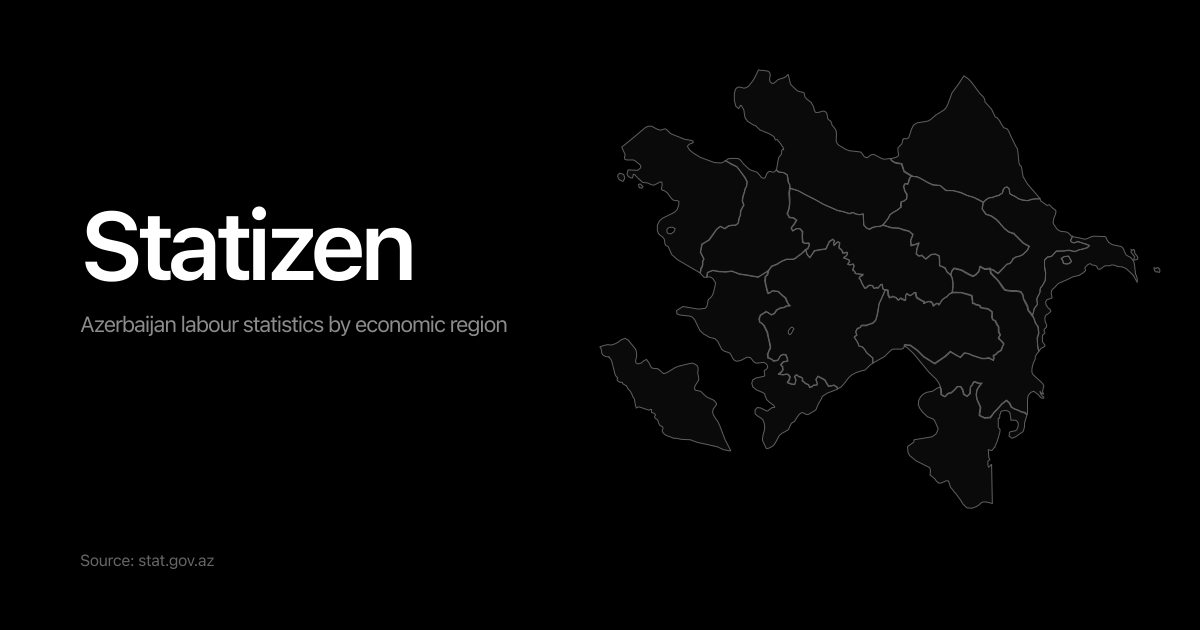
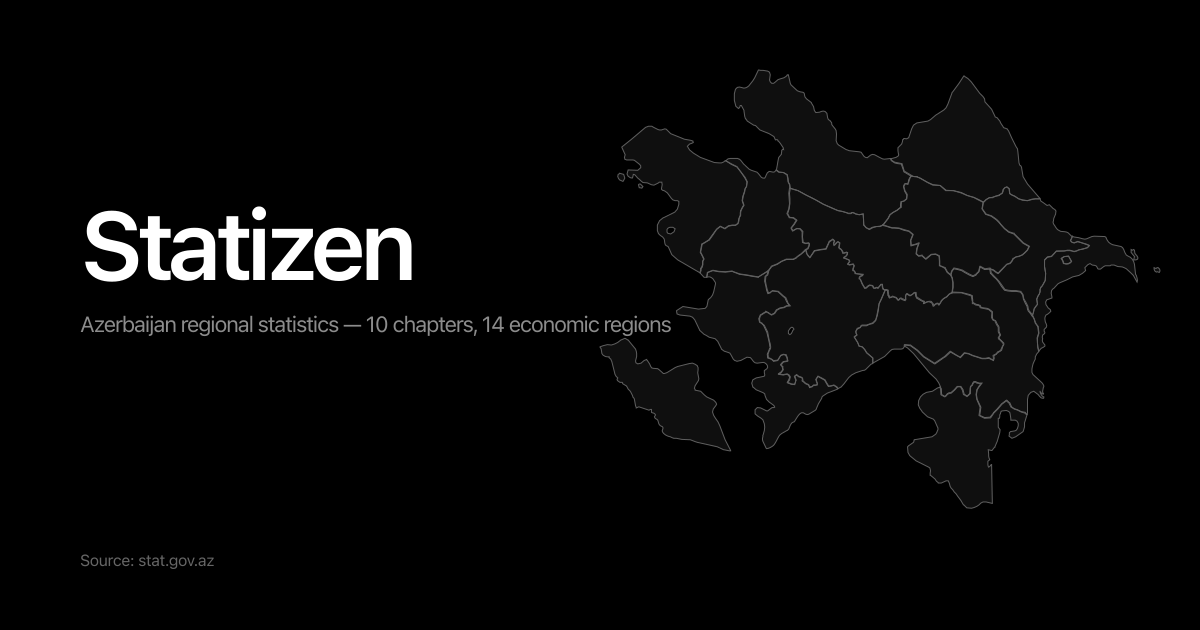
Refresh OG card + meta description for 10-chapter scope
OG subtitle was still "labour statistics" from the launch frame.
Updated to "10 chapters, 14 economic regions" so the LinkedIn /
Twitter preview matches what's actually shipped. Also bumped the
map fill alpha 0.04 → 0.06 to match the lighter dark-mode token.
Meta description rewritten to list all ten chapters.

Changed region(s): [[0.1542, 0.4825, 0.555, 0.5429]]

diff --git a/app/layout.tsx b/app/layout.tsx
@@ -12,7 +12,7 @@ const archivo = Archivo({
 const SITE_URL = "https://statizen.space";
 const SITE_TITLE = "Statizen — Azerbaijan regional statistics";
 const SITE_DESCRIPTION =
-  "Interactive map of Azerbaijan's regional statistics — demography, labour market, health, crime, and trade across the 14 economic regions. Source: stat.gov.az.";
+  "Interactive map of Azerbaijan's regional statistics — economy, demography, labour, industry, agriculture, health, crime, transport, tourism, and trade across the 14 economic regions. Source: stat.gov.az.";
 
 export const metadata: Metadata = {
   metadataBase: new URL(SITE_URL),

diff --git a/etl/geo/figma/og.py b/etl/geo/figma/og.py
@@ -16,7 +16,7 @@ scale = min(MAP_W / bb["w"], (H - 140) / bb["h"])
 tx = MAP_X - bb["x"] * scale
 ty = MAP_Y - bb["y"] * scale
 paths = "".join(
-    f'<path d="{r["d"]}" fill="rgba(255,255,255,0.04)" stroke="#5f5f5f" '
+    f'<path d="{r["d"]}" fill="rgba(255,255,255,0.06)" stroke="#5f5f5f" '
     f'stroke-width="1" vector-effect="non-scaling-stroke"/>'
     for r in d["regions"]
 )
@@ -28,7 +28,7 @@ svg = f'''<svg xmlns="http://www.w3.org/2000/svg" width="{W}" height="{H}" viewB
     style="letter-spacing:-2px">Statizen</text>
   <text x="80" y="332" font-family="Archivo, Inter, system-ui, sans-serif"
     font-size="22" fill="rgba(255,255,255,0.55)"
-    style="letter-spacing:-0.4px">Azerbaijan labour statistics by economic region</text>
+    style="letter-spacing:-0.4px">Azerbaijan regional statistics — 10 chapters, 14 economic regions</text>
   <text x="80" y="566" font-family="Archivo, Inter, system-ui, sans-serif"
     font-size="16" fill="rgba(255,255,255,0.4)"
     style="letter-spacing:-0.2px">Source: stat.gov.az</text>